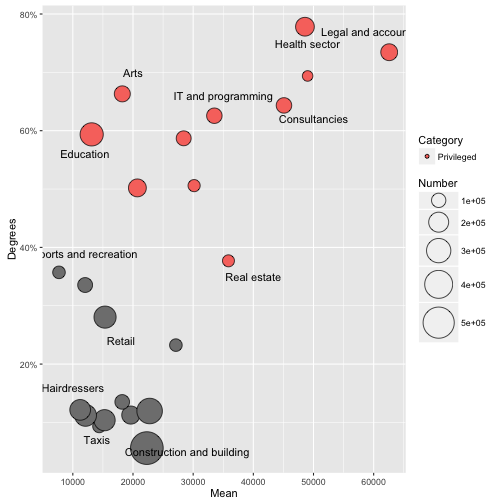
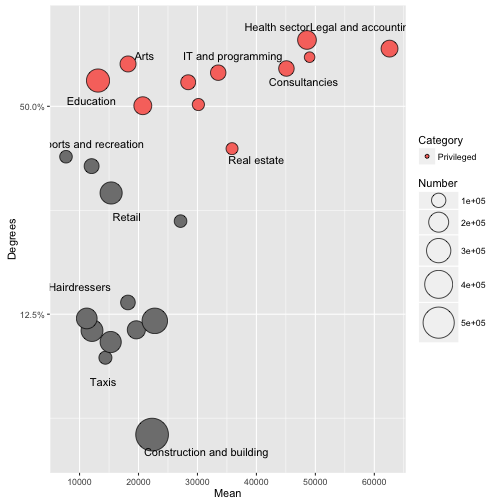
Update scale

diff --git a/week5/week5.md b/week5/week5.md
@@ -174,7 +174,7 @@ colors <- ggplot(df, aes(x = Mean, y = Degrees, size = Number, fill=Category)) +
   geom_point(shape=21) +
   scale_size_area(max_size = 15) +
   scale_x_continuous(breaks = seq(0, 70000, 10000)) +
-  scale_y_continuous(labels = scales::percent)
+  scale_y_continuous(labels = scales::percent, trans=log2_trans())
 colors
 ```
 
@@ -200,18 +200,18 @@ label
 
 ```r
 moreLabels <- colors +
-  annotate("text", x = 29000, y = .05, label = "Construction and building") +
-  annotate("text", x = 12000, y = .56, label = "Education") +
-  annotate("text", x = 49000, y = .75, label = "Health sector") +
-  annotate("text", x = 10000, y = .16, label = "Hairdressers") +
+  annotate("text", x = 31500, y = .05, label = "Construction and building") +
+  annotate("text", x = 12000, y = .52, label = "Education") +
+  annotate("text", x = 43500, y = .85, label = "Health sector") +
+  annotate("text", x = 10000, y = .15, label = "Hairdressers") +
   annotate("text", x = 12000, y = .39, label = "Sports and recreation") +
-  annotate("text", x = 20000, y = .7, label = "Arts") +
+  annotate("text", x = 21000, y = .7, label = "Arts") +
   annotate("text", x = 40000, y = .35, label = "Real estate") +
-  annotate("text", x = 14000, y = .07, label = "Taxis") +
-  annotate("text", x = 35000, y = .66, label = "IT and programming") +
-  annotate("text", x = 50000, y = .62, label = "Consultancies") +
+  annotate("text", x = 14000, y = .08, label = "Taxis") +
+  annotate("text", x = 36000, y = .7, label = "IT and programming") +
+  annotate("text", x = 48000, y = .59, label = "Consultancies") +
   annotate("text", x = 18000, y = .24, label = "Retail") +
-  annotate("text", x = 60000, y = .77, label = "Legal and accounting")
+  annotate("text", x = 58000, y = .85, label = "Legal and accounting")
 moreLabels
 ```
 
